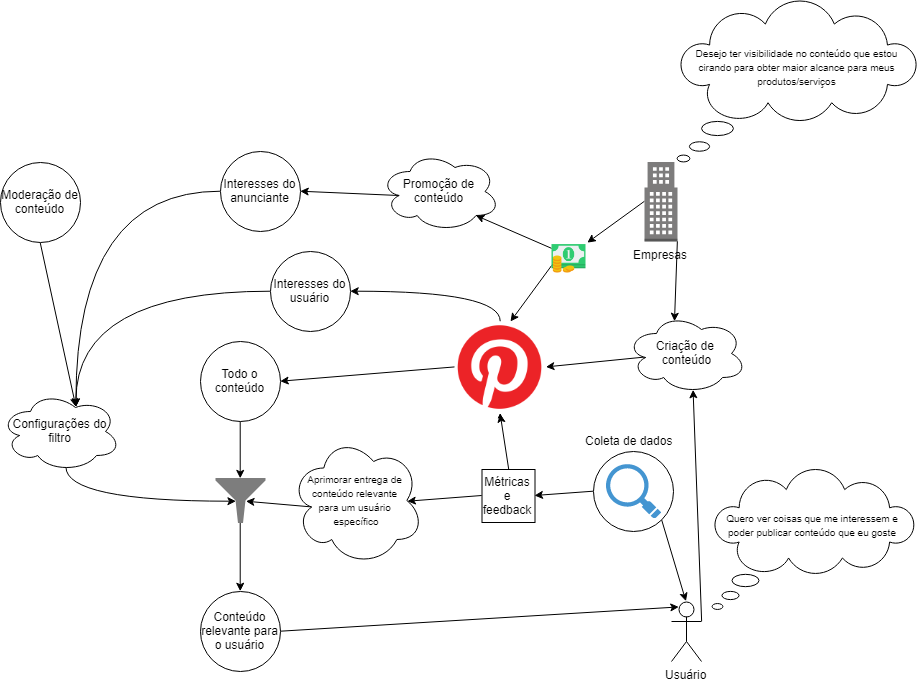
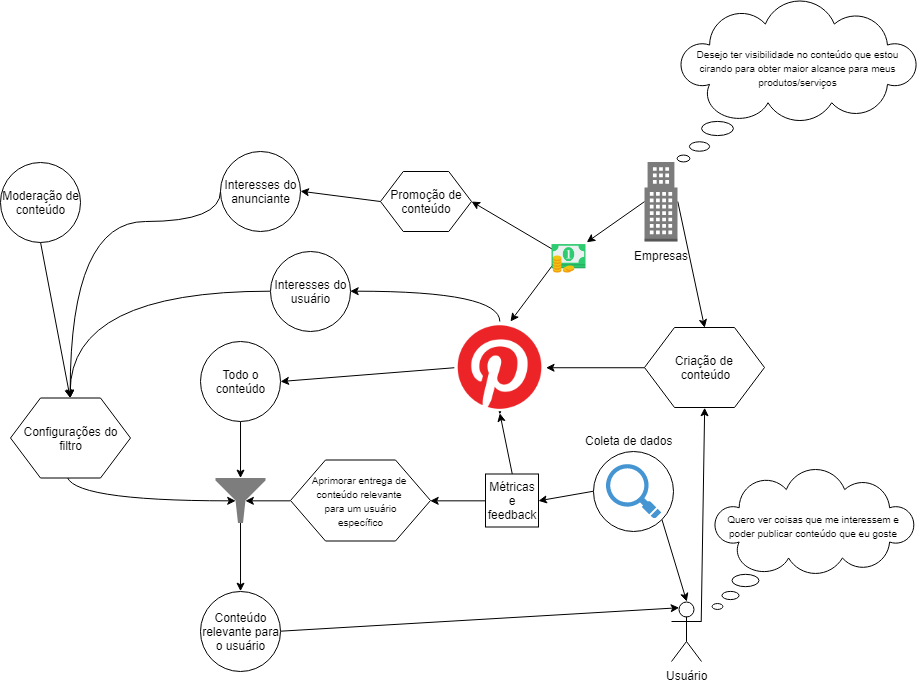
Fixing small errors in RP8

diff --git a/docs/rich_picture.md b/docs/rich_picture.md
@@ -21,7 +21,7 @@
 |  3.0 | 15/11/2018 | Adição da terceira versão do [RP3](#rp3-tipos-de-pins) | Alexandre Miguel |
 |  3.1 | 17/11/2018 | Adição da primeira versão do [RP9](#rp9-receber-notificacao) | Letícia Meneses |
 |  3.2 | 17/11/2018 | Adição da segunda versão do [RP9](#rp9-receber-notificacao) | Letícia Meneses |
-
+|  3.3 | 17/11/2018 | Pequenas correções na notação de  [RP8](#rp8-pinterest-e-entrega-de-conteudo-ao-usuario) | Guilherme Guy |
 
 ##  Introdução
 
